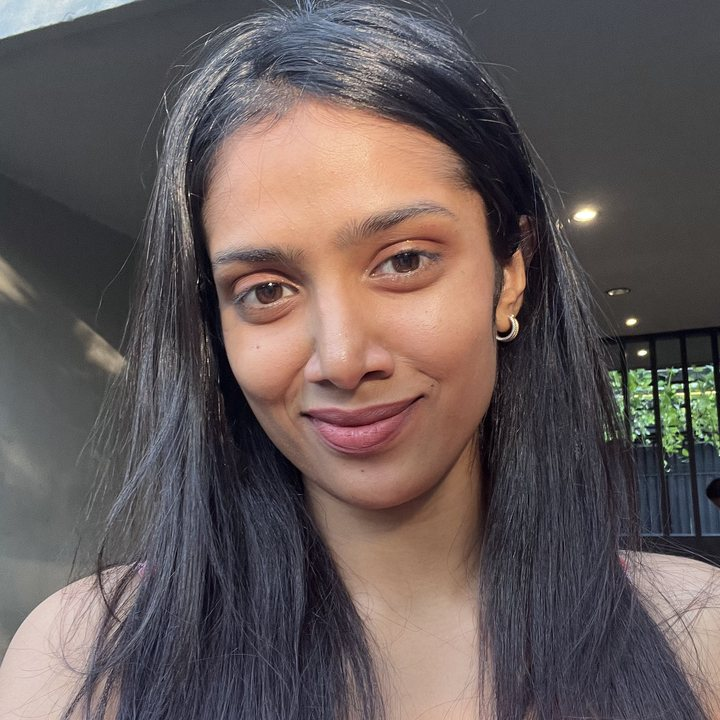
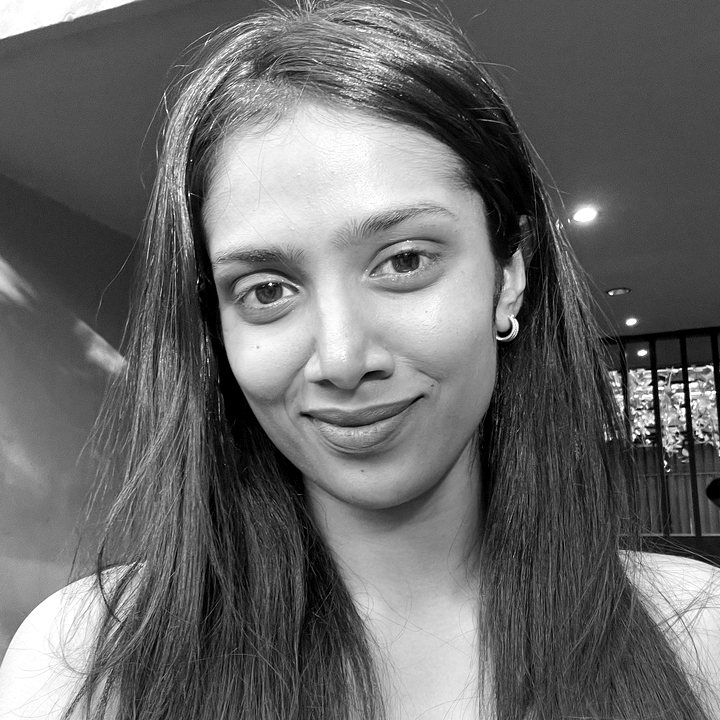
Black and white profile photo

diff --git a/case-studies/zomato-tier1-strategy.html b/case-studies/zomato-tier1-strategy.html
@@ -5,7 +5,7 @@
 <meta name="viewport" content="width=device-width, initial-scale=1">
 <title>Zomato: the OKR that survives contact with a funnel | Haniya Amjad</title>
 <meta name="description" content="Per 100 Tier 1 app opens only 12 end in a delivered order. A north star that decomposes into four key results, a funnel holding two different kinds of problem, and six cohorts framed as runnable tests.">
-<link rel="stylesheet" href="../assets/style.css?v=13">
+<link rel="stylesheet" href="../assets/style.css?v=14">
 </head>
 <body style="--case:#e23744; --case-soft:rgba(226,55,68,.09); --case-line:rgba(226,55,68,.28);">
 
@@ -654,6 +654,6 @@
   </div>
 </footer>
 
-<script src="../assets/main.js?v=13"></script>
+<script src="../assets/main.js?v=14"></script>
 </body>
 </html>

diff --git a/case-studies/pickup-market-sizing.html b/case-studies/pickup-market-sizing.html
@@ -5,7 +5,7 @@
 <meta name="viewport" content="width=device-width, initial-scale=1">
 <title>Sizing the pickup problem | Haniya Amjad</title>
 <meta name="description" content="How much revenue is actually at stake in ride hailing pickup friction in India. A market sizing built two ways, cross checked against each other, and stress tested against its own assumptions.">
-<link rel="stylesheet" href="../assets/style.css?v=13">
+<link rel="stylesheet" href="../assets/style.css?v=14">
 </head>
 <body style="--case:#6d5bd0; --case-soft:rgba(109,91,208,.10); --case-line:rgba(109,91,208,.30);">
 
@@ -361,6 +361,6 @@
   </div>
 </footer>
 
-<script src="../assets/main.js?v=13"></script>
+<script src="../assets/main.js?v=14"></script>
 </body>
 </html>

diff --git a/case-studies/uber-pickup-experience.html b/case-studies/uber-pickup-experience.html
@@ -5,7 +5,7 @@
 <meta name="viewport" content="width=device-width, initial-scale=1">
 <title>Uber India pickup experience: the last 200 meters | Haniya Amjad</title>
 <meta name="description" content="Primary research with 41 riders across Chennai and Bengaluru on why the Uber India pickup experience fails, four behavioural personas, and three research led solutions.">
-<link rel="stylesheet" href="../assets/style.css?v=13">
+<link rel="stylesheet" href="../assets/style.css?v=14">
 </head>
 <body style="--case:#276ef1; --case-soft:rgba(39,110,241,.09); --case-line:rgba(39,110,241,.28);">
 
@@ -652,6 +652,6 @@
   </div>
 </footer>
 
-<script src="../assets/main.js?v=13"></script>
+<script src="../assets/main.js?v=14"></script>
 </body>
 </html>

diff --git a/case-studies/vitafit-prd.html b/case-studies/vitafit-prd.html
@@ -5,7 +5,7 @@
 <meta name="viewport" content="width=device-width, initial-scale=1">
 <title>VitaFit: the long game | Haniya Amjad</title>
 <meta name="description" content="A product requirements document for a fitness platform losing users to trainer rotation and demotivating leaderboards. Two features, a fair cohort model, and a hybrid online to offline loop.">
-<link rel="stylesheet" href="../assets/style.css?v=13">
+<link rel="stylesheet" href="../assets/style.css?v=14">
 </head>
 <body style="--case:#0d9488; --case-soft:rgba(13,148,136,.10); --case-line:rgba(13,148,136,.30);">
 
@@ -577,6 +577,6 @@
   </div>
 </footer>
 
-<script src="../assets/main.js?v=13"></script>
+<script src="../assets/main.js?v=14"></script>
 </body>
 </html>

diff --git a/projects/cultfit-anchored-week.html b/projects/cultfit-anchored-week.html
@@ -5,7 +5,7 @@
 <meta name="viewport" content="width=device-width, initial-scale=1">
 <title>cult.fit: the anchored week | Haniya Amjad</title>
 <meta name="description" content="Only 34% of new cultpass members build a routine in their first 45 days. Field research across six centres, two prioritised bets built from existing surfaces, and a working prototype.">
-<link rel="stylesheet" href="../assets/style.css?v=13">
+<link rel="stylesheet" href="../assets/style.css?v=14">
 </head>
 <body style="--case:#ef430a; --case-soft:rgba(239,67,10,.10); --case-line:rgba(239,67,10,.30);">
 
@@ -735,6 +735,6 @@
   </div>
 </footer>
 
-<script src="../assets/main.js?v=13"></script>
+<script src="../assets/main.js?v=14"></script>
 </body>
 </html>

diff --git a/case-studies/uber-eats-group-order.html b/case-studies/uber-eats-group-order.html
@@ -5,7 +5,7 @@
 <meta name="viewport" content="width=device-width, initial-scale=1">
 <title>Uber Eats Group Order: JTBD and first principles | Haniya Amjad</title>
 <meta name="description" content="Why groups abandon Uber Eats Group Order for a WhatsApp poll. Six anxieties traced to four root causes, five design guarantees, and a phased feature roadmap.">
-<link rel="stylesheet" href="../assets/style.css?v=13">
+<link rel="stylesheet" href="../assets/style.css?v=14">
 </head>
 <body style="--case:#0b7a46; --case-soft:rgba(11,122,70,.10); --case-line:rgba(11,122,70,.30);">
 
@@ -561,6 +561,6 @@
   </div>
 </footer>
 
-<script src="../assets/main.js?v=13"></script>
+<script src="../assets/main.js?v=14"></script>
 </body>
 </html>

diff --git a/case-studies/zepto-aov.html b/case-studies/zepto-aov.html
@@ -5,7 +5,7 @@
 <meta name="viewport" content="width=device-width, initial-scale=1">
 <title>Zepto: closing the average order value gap | Haniya Amjad</title>
 <meta name="description" content="Zepto sits 157 rupees behind the category leader on average order value. The diagnosis, the five mechanics that close it, and what the app looks like afterwards.">
-<link rel="stylesheet" href="../assets/style.css?v=13">
+<link rel="stylesheet" href="../assets/style.css?v=14">
 </head>
 <body style="--case:#950edb; --case-soft:rgba(149,14,219,.10); --case-line:rgba(149,14,219,.30);">
 
@@ -621,6 +621,6 @@
   </div>
 </footer>
 
-<script src="../assets/main.js?v=13"></script>
+<script src="../assets/main.js?v=14"></script>
 </body>
 </html>

diff --git a/case-studies/garmin-connect-ux.html b/case-studies/garmin-connect-ux.html
@@ -5,7 +5,7 @@
 <meta name="viewport" content="width=device-width, initial-scale=1">
 <title>Garmin Connect: a redesigned daily check in | Haniya Amjad</title>
 <meta name="description" content="A UX evaluation of one Garmin Connect flow, twelve usability issues across ten heuristics, and a redesigned interface that applies every fix.">
-<link rel="stylesheet" href="../assets/style.css?v=13">
+<link rel="stylesheet" href="../assets/style.css?v=14">
 </head>
 <body style="--case:#007cc3; --case-soft:rgba(0,124,195,.10); --case-line:rgba(0,124,195,.30);">
 
@@ -619,6 +619,6 @@
   </div>
 </footer>
 
-<script src="../assets/main.js?v=13"></script>
+<script src="../assets/main.js?v=14"></script>
 </body>
 </html>

diff --git a/projects/sip-academy.html b/projects/sip-academy.html
@@ -5,7 +5,7 @@
 <meta name="viewport" content="width=device-width, initial-scale=1">
 <title>MIKIDS: product development | Haniya Amjad</title>
 <meta name="description" content="An edtech program in 500 plus schools. Dropout contained from 26 percent to about 20, a record 3 crore plus year of new business, and a new line launched.">
-<link rel="stylesheet" href="../assets/style.css?v=13">
+<link rel="stylesheet" href="../assets/style.css?v=14">
 </head>
 <body style="--case:#1e56a0; --case-soft:rgba(30,86,160,.10); --case-line:rgba(30,86,160,.30);">
 
@@ -293,6 +293,6 @@
   </div>
 </footer>
 
-<script src="../assets/main.js?v=13"></script>
+<script src="../assets/main.js?v=14"></script>
 </body>
 </html>

diff --git a/case-studies/index.html b/case-studies/index.html
@@ -5,7 +5,7 @@
 <meta name="viewport" content="width=device-width, initial-scale=1">
 <title>Haniya Amjad Portfolio</title>
 <meta name="description" content="Product management case studies across RCA, metrics, product improvement, product design and guesstimates, plus a capstone project with a working prototype.">
-<link rel="stylesheet" href="../assets/style.css?v=13">
+<link rel="stylesheet" href="../assets/style.css?v=14">
 </head>
 <body>
 
@@ -5194,7 +5194,7 @@
   </div>
 </footer>
 
-<script src="../assets/main.js?v=13"></script>
-<script src="../assets/router.js?v=13"></script>
+<script src="../assets/main.js?v=14"></script>
+<script src="../assets/router.js?v=14"></script>
 </body>
 </html>

diff --git a/index.html b/index.html
@@ -5,7 +5,7 @@
 <meta name="viewport" content="width=device-width, initial-scale=1">
 <title>About Haniya Amjad</title>
 <meta name="description" content="Product manager with 3+ years of experience, strongest in B2B, who works from the customer's side of the problem.">
-<link rel="stylesheet" href="assets/style.css?v=13">
+<link rel="stylesheet" href="assets/style.css?v=14">
 </head>
 <body style="--case:#16A34A; --case-soft:rgba(22,163,74,.10); --case-line:rgba(22,163,74,.30);">
 
@@ -270,6 +270,6 @@
   </div>
 </footer>
 
-<script src="assets/main.js?v=13"></script>
+<script src="assets/main.js?v=14"></script>
 </body>
 </html>
